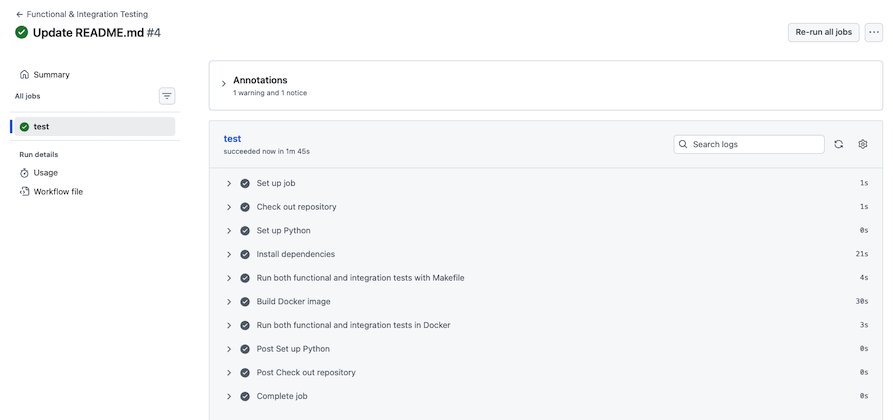
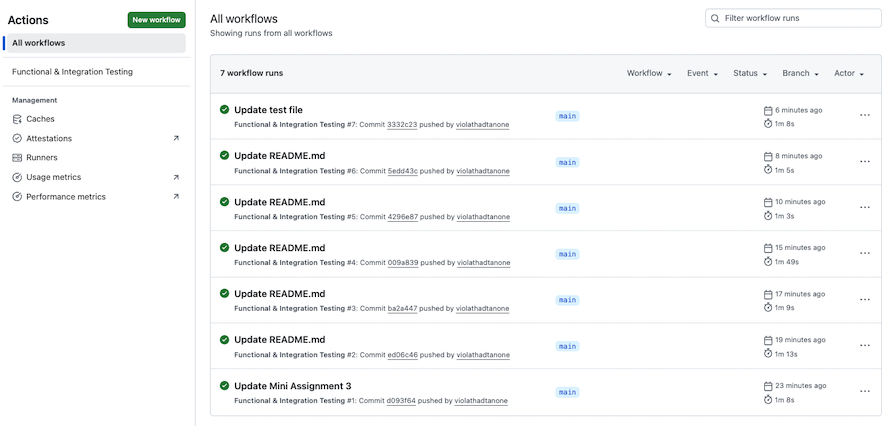
Update README.md

diff --git a/README.md b/README.md
@@ -291,7 +291,7 @@ make test
 ```
 
 ### 3. Run the test from Docker
-- Run the code below in Terminal. This should return the same results of passing/failing from the previous steps. The screenshot of test results can also be seen below.
+- Run the code below in Terminal. This should return the same results of passing/failing from the previous steps. The screenshot of test results can also be seen below, where all test cases successfully passed.
 ```bash
 make docker-test
 ```
@@ -341,6 +341,6 @@ jobs:
 ```
 
 ### 2. Validate workflow run
-- We can check the successful run of the workflow, where the green icon indicates a complete run, where red icon indicates some failure during the run. The screenshot of CI results can also be seen below.
+- We can check the successful run of the workflow, where the green icon indicates a complete run, where red icon indicates some failure during the run. The screenshot of CI results can also be seen below, where all workflows successfully ran.
 ![CI Results1](Images/CI_results1.png)
 ![CI Results2](Images/CI_results2.png)
